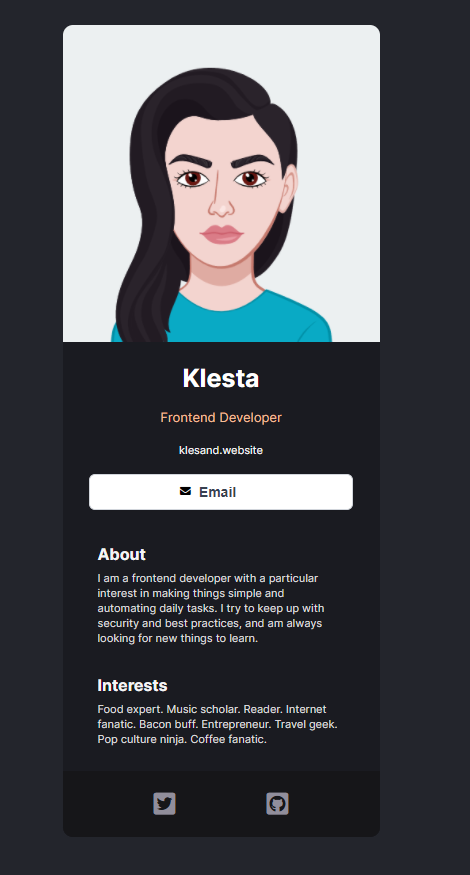
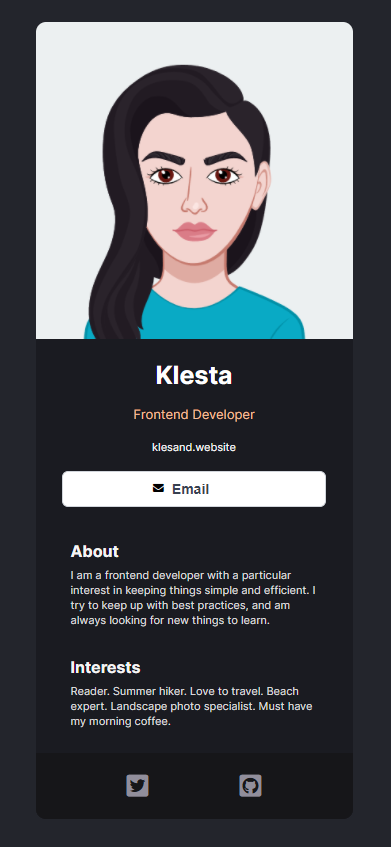
updated text and screenshot

diff --git a/src/Components/About.js b/src/Components/About.js
@@ -5,9 +5,9 @@ export default function About() {
     <div className="About">
       <h3>About</h3>
       <p className="about-text">
-        I am a frontend developer with a particular interest in making things
-        simple and automating daily tasks. I try to keep up with security and
-        best practices, and am always looking for new things to learn.
+        I am a frontend developer with a particular interest in keeping things
+        simple and efficient. I try to keep up with best practices, and am
+        always looking for new things to learn.
       </p>
     </div>
   );

diff --git a/src/Components/Interests.js b/src/Components/Interests.js
@@ -5,8 +5,8 @@ export default function Interests() {
     <div className="Interests">
       <h3>Interests</h3>
       <p className="interests-text">
-        Food expert. Music scholar. Reader. Internet fanatic. Bacon buff.
-        Entrepreneur. Travel geek. Pop culture ninja. Coffee fanatic.
+        Reader. Summer hiker. Love to travel. Beach expert. Landscape photo
+        specialist. Must have my morning coffee.
       </p>
     </div>
   );
